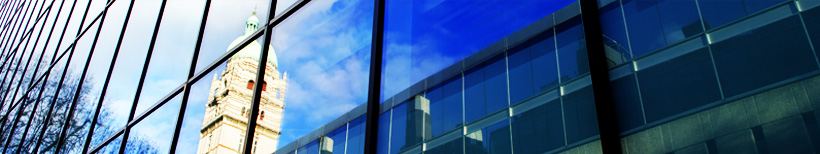
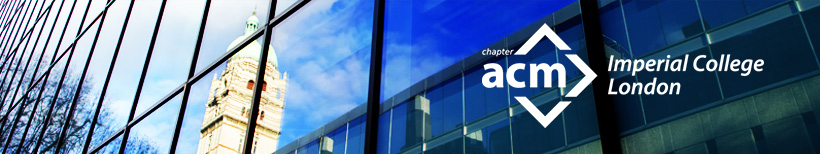
Updated the main page, navbar and the location page
Mainpage:
- Added the date
- Moved the ACM logo to the image
- Made the font bigger for the title

Navbar:
- Made it blue, same hue as in the posters and other marketing material.
- Added colours to the hover, focus and active states.
- Made the links white colour

Location Page:
- Removed duplicate location title
- Updated the map (previous one said 2012)

Changed region(s): [[0.5793, 0.1558, 0.9451, 0.6234], [0.6098, 0.6234, 0.7012, 0.8312]]

diff --git a/contents/css/ICCSW15.css b/contents/css/ICCSW15.css
@@ -1,0 +1,26 @@
+.navbar {
+	background-color:#174D80;
+}
+
+.navbar-inverse .navbar-nav > .active > a,
+.navbar-inverse .navbar-nav > .active > a:hover,
+.navbar-inverse .navbar-nav > .active > a:focus {
+  color: #fff;
+  background-color: #103050;
+}
+
+.navbar-collapse.nav-collapse > ul > li > a {
+	  color: #fff;
+}
+
+.navbar-collapse.nav-collapse > ul > li > a:hover,
+.navbar-collapse.nav-collapse > ul > li > a:focus {
+  color: #fff;
+  background-color: #1577D9;
+}
+
+.jumbotron .extrabig {
+	font-size: 40px;
+	font-weight: bold;
+}
+

diff --git a/contents/location.md b/contents/location.md
@@ -3,16 +3,15 @@ title: Location
 template: page.jade
 ---
 
-## Location
-
 The workshop will be hosted at the Department of Computing located
 inside the South Kensington Campus at Imperial College London, 180
 Queen's Gate, London SW7 2AZ. **The location within the department has
 not yet been confirmed.**
 
-<iframe width="640" height="320" frameborder="0" scrolling="no"
-marginheight="0" marginwidth="0"
-src="https://maps.google.com/maps/ms?msa=0&amp;msid=208969794587665890130.0004c70ae4537961a4915&amp;ie=UTF8&amp;t=m&amp;ll=51.498732,-0.179461&amp;spn=0.002137,0.006866&amp;z=17&amp;output=embed"></iframe><br /><small>View <a href="https://maps.google.com/maps/ms?msa=0&amp;msid=208969794587665890130.0004c70ae4537961a4915&amp;ie=UTF8&amp;t=m&amp;ll=51.498732,-0.179461&amp;spn=0.002137,0.006866&amp;z=17&amp;source=embed" style="color:#0000FF;text-align:left">ICCSW'12</a> in a larger map</small>
+
+<iframe src="https://www.google.com/maps/d/embed?mid=zYEjZyEZ3Q8M.kCiw0XKfNWG4" width="740" height="320" frameborder="0" scrolling="no"
+marginheight="0" marginwidth="0" ></iframe>
+<br /><small>View <a href="https://www.google.com/maps/d/embed?mid=zYEjZyEZ3Q8M.kCiw0XKfNWG4" style="color:#0000FF;text-align:left">ICCSW'15</a> in a larger map</small>
 
 Located in the center of London, South Kensignton Campus is well served
 by a public transport.
